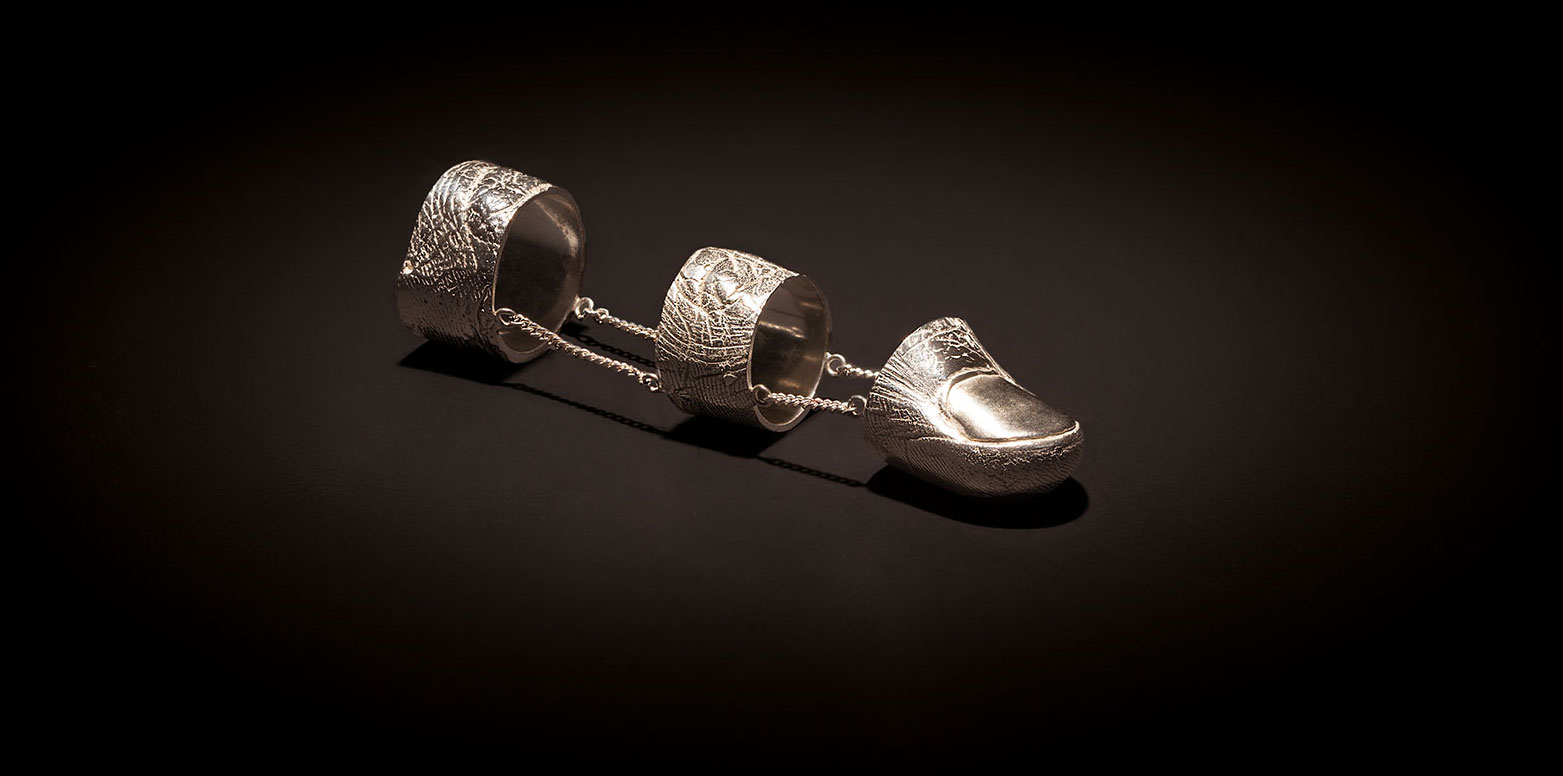
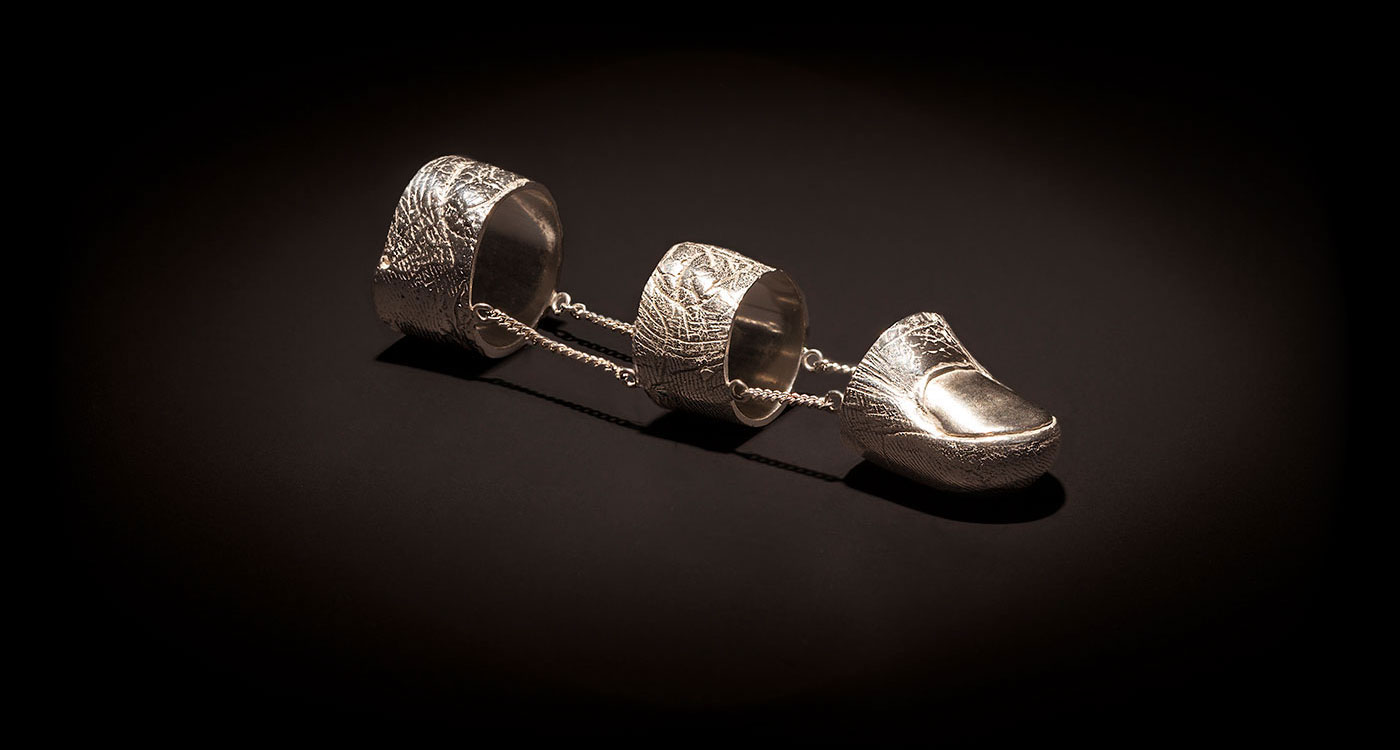
adds carousel
adds carousel of product images to top of page

Changed region(s): [[0.2457, 0.184, 0.7679, 0.7053]]

diff --git a/secondskin.html b/secondskin.html
@@ -65,10 +65,21 @@
 	</div>
 </div>
 
-<div class="product-slider owl-carousel">
-	
+<div class="slider-outer">
+	<div class="owl-carousel" id="slider">
+		<img src="img/skin/products/1.jpg" class="slider-img">
+		<img src="img/skin/products/2.jpg" class="slider-img">
+		<img src="img/skin/products/3.jpg" class="slider-img">
+		<img src="img/skin/products/4.jpg" class="slider-img">
+		<img src="img/skin/products/articulus.jpg" class="slider-img">
+		<img src="img/skin/products/aureus.jpg" class="slider-img">
+		<img src="img/skin/products/chryseum.jpg" class="slider-img">
+		<img src="img/skin/products/chryseum-back.jpg" class="slider-img">
+		<img src="img/skin/products/condulus.jpg" class="slider-img">
+		<img src="img/skin/products/pellis.jpg" class="slider-img">
+		<img src="img/skin/products/pellis-back.jpg" class="slider-img">
+	</div>
 </div>
-
 
 <article class="articulus">
 	<div class="articulus__finger col-sm-6">
@@ -86,8 +97,6 @@
 		<img src="img/skin/models/articulus-1.jpg">
 	</div>	
 </article>
-
-
 
 <article class="auris">
 	<div class="auris__textbox textbox">
@@ -139,8 +148,6 @@
 	</div>
 </article>
 
-
-
 <article class="decorio">
 	<div class="decorio__models col-sm-6 col-lg-5">
 		<img src="img/skin/models/decorio-1.jpg">
@@ -154,8 +161,6 @@
 		<span>18 carat gold plated ring, Bespoke fit.</span>
 	</div>
 </article>
-
-
 
 <article class="pellis">
 	<div class="pellis__ring col-sm-6">
@@ -181,8 +186,6 @@
 		<span>Highly polished 925 sterling silver, Bespoke fit.</span>
 	</div>
 </article>
-
-
 
 <article class="chryseum">
 	<div class="chryseum__ring  col-sm-6">
@@ -217,7 +220,25 @@
 
 
 
+<script>
 
+var productClicked = 0;
+var owl = $("#slider");
+
+
+$(document).ready(function(){
+  $(".owl-carousel").owlCarousel({
+  	loop:true,
+    items:1,
+    autoplay: true,
+    autoplayHoverPause: true,
+    autoplayTimeout: 1000,
+    autoplaySpeed: 1000
+
+  });
+});
+
+</script>
 </body>
 
 </html>

diff --git a/css/secondskin.css b/css/secondskin.css
@@ -42,11 +42,19 @@ p {
 
 .intro {
   width: 100%;
-  margin: 50px 0 100px 0; }
+  margin: 50px 0 0 0; }
   .intro .thesvg {
     display: flex;
     justify-content: center;
     padding: 0 0 30px 0; }
+
+.slider-outer {
+  width: 100%;
+  margin: 0 auto 100px auto; }
+
+.slider-img {
+  width: 70% !important;
+  margin: 0 auto; }
 
 article {
   position: relative;

diff --git a/scss/secondskin.scss b/scss/secondskin.scss
@@ -71,7 +71,7 @@ p{
 
 .intro{
 	width: 100%;
-	margin: 50px 0 100px 0;
+	margin: 50px 0 0 0;
 
 	.thesvg{
 		display: flex;
@@ -79,6 +79,19 @@ p{
 		padding: 0 0 30px 0;
 	}
 }
+
+
+.slider-outer{
+	width: 100%;
+	margin: 0 auto 100px auto;
+}
+
+.slider-img{
+	width:70%!important;
+	margin: 0 auto;
+
+}
+
 
   /////////////////////
  ////ARTICLES/////////
